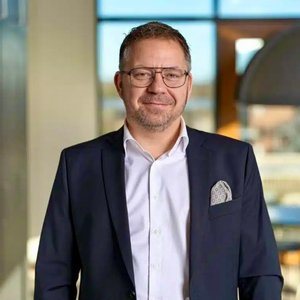
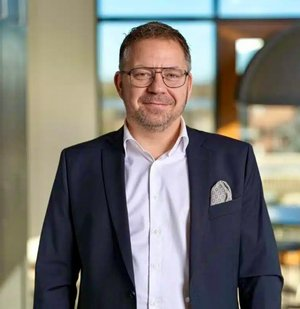
Burgermenu, serverside formularer, Thomas-billedjustering
- Burgermenu: hamburger-knap vises <960px, åbner nav-dropdown med links
  og telefonnummer til <560px (tidligere: kun logo synligt på mobil)
- api/kontakt.js: serverside email via Resend — ingen mailto: mere
  Kræver RESEND_API_KEY i Vercel env vars (resend.com)
- Tilbudsformular og klageformular bruger nu /api/kontakt POST
  med succes/fejl-feedback i stedet for at åbne mailprogram
- Thomas foto: ny portrait-crop + CSS translateY(-10%) for bedre centrering

diff --git a/index.html b/index.html
@@ -106,6 +106,19 @@
     .nav { display: flex; gap: 2rem; font-size: 0.875rem; font-weight: 600; color: var(--muted); }
     .nav a:hover { color: var(--blue); transition: color 0.2s; }
 
+    .nav-toggle {
+      display: none; flex-direction: column; justify-content: center; gap: 5px;
+      background: none; border: none; cursor: pointer; padding: 0.4rem 0.5rem; margin-left: 0.5rem;
+    }
+    .nav-toggle span {
+      display: block; width: 22px; height: 2px; background: var(--blue);
+      border-radius: 2px; transition: transform .22s, opacity .22s;
+    }
+    .nav-toggle[aria-expanded="true"] span:nth-child(1) { transform: translateY(7px) rotate(45deg); }
+    .nav-toggle[aria-expanded="true"] span:nth-child(2) { opacity: 0; }
+    .nav-toggle[aria-expanded="true"] span:nth-child(3) { transform: translateY(-7px) rotate(-45deg); }
+    .nav-mobile-phone { display: none; }
+
     .header-cta {
       font-size: 0.875rem; font-weight: 700;
       padding: 0.6rem 1.25rem; border-radius: 999px;
@@ -1177,7 +1190,15 @@
       .team-card-featured { grid-column: span 1; grid-template-columns: 1fr; }
       .cert-logo-grid { grid-template-columns: repeat(3, 1fr); }
       .wordmark { min-width: 180px; padding: 1.4rem 1.75rem; }
-      .nav { display: none; }
+      .nav-toggle { display: flex; }
+      .nav {
+        display: none; position: absolute; top: 100%; left: 0; right: 0;
+        flex-direction: column; gap: 0; background: rgba(245,243,238,.97);
+        backdrop-filter: blur(20px); border-bottom: 1px solid rgba(1,80,109,.12);
+        padding: .5rem 0 1.25rem; box-shadow: 0 8px 24px rgba(0,0,0,.08); z-index: 199;
+      }
+      .nav.is-open { display: flex; }
+      .nav a { padding: .75rem clamp(1.25rem,5vw,3rem); border-bottom: 1px solid rgba(1,80,109,.06); width: 100%; box-sizing: border-box; }
       .hero { grid-template-columns: 1fr; min-height: auto; padding-top: 3rem; }
       .hero-panel { display: grid; grid-template-columns: repeat(3,1fr); }
       .hero-panel > div { border-bottom: none; padding: 1.1rem 1rem; border-right: 1px solid rgba(255,255,255,0.12); }
@@ -1194,6 +1215,7 @@
       .wordmark { min-width: 160px; padding: 1.25rem 1.5rem; font-size: 1rem; }
       .wordmark-track { animation-duration: 28s; }
       .header-cta { display: none; }
+      .nav-mobile-phone { display: block; font-weight: 700; color: var(--blue); padding: .75rem clamp(1.25rem,5vw,3rem); border-bottom: 1px solid rgba(1,80,109,.06); }
       .site-header { padding: 1rem 1.25rem; }
       h1 { font-size: 3rem; }
       .cert-grid { grid-template-columns: 1fr 1fr; }
@@ -1662,6 +1684,11 @@ main, section, header, footer {
 
 [data-popup-key="Fargol Monazam"] .team-photo img {
   transform: scale(1.3) translateY(12%) !important;
+  transform-origin: center center !important;
+}
+
+[data-popup-key="Thomas Engelbrektsson"] .team-photo img {
+  transform: scale(1.15) translateY(-10%) !important;
   transform-origin: center center !important;
 }
 
@@ -2505,14 +2532,18 @@ body.av-edit #av-popup-store{
 <path d="M5.62402 82.5848L18.4436 74.0883C26.9723 81.5392 31.8141 86.1088 40.9883 97.342C67.2256 64.2894 80.7686 55.2111 118 47C78.3871 63.6102 38.9055 122.221 38.778 123.726C38.6506 125.231 6.60237 82.7461 5.62402 82.5848Z" fill="#FF6A3F"></path>
 </svg>
 </a>
-<nav class="nav">
+<nav class="nav" id="mainNav">
 <a href="#certificeringer"><span data-editable data-key="nav-cert">Certificeringer</span></a>
 <a href="#om"><span data-editable data-key="nav-about">Om os</span></a>
 <a href="#team"><span data-editable data-key="nav-team">Team</span></a>
 <a href="#tilbud"><span data-editable data-key="nav-offer">Få tilbud</span></a>
 <a href="#kontakt"><span data-editable data-key="nav-contact">Kontakt</span></a>
+<a class="nav-mobile-phone" href="tel:+4536163616">📞 36 16 36 16</a>
 </nav>
 <a class="header-cta" href="tel:+4536163616"><span data-editable data-key="header-cta">36 16 36 16</span></a>
+<button aria-expanded="false" aria-label="Åbn menu" class="nav-toggle" id="navToggle" type="button">
+<span aria-hidden="true"></span><span aria-hidden="true"></span><span aria-hidden="true"></span>
+</button>
 </div>
 </header>
 <main id="top">
@@ -3045,20 +3076,35 @@ Ring 36 16 36 16
       'virksomhed_størrelse': fd.get('size') || '',
       'standarder': standards
     });
-    var subject = encodeURIComponent('Tilbudsforespørgsel: ' + (fd.get('company') || fd.get('name') || ''));
-    var body = encodeURIComponent(
-      'STANDARDER\n' +
-      'Ønskede standarder: ' + standards + '\n\n' +
-      'VIRKSOMHED\n' +
-      'Firmanavn: ' + (fd.get('company') || '') + '\n' +
-      'Antal medarbejdere: ' + (fd.get('size') || '') + '\n' +
-      'Allerede certificeret: ' + (fd.get('certified') || '') + '\n\n' +
-      'KONTAKT\n' +
-      'Navn: ' + (fd.get('name') || '') + '\n' +
-      'Telefon: ' + (fd.get('phone') || '') + '\n' +
-      'Email: ' + (fd.get('email') || '')
-    );
-    window.location.href = 'mailto:info@avancert.dk?subject=' + subject + '&body=' + body;
+    var submitBtn = form.querySelector('[type="submit"]');
+    submitBtn.disabled = true; submitBtn.textContent = 'Sender…';
+    fetch('/api/kontakt', {
+      method: 'POST',
+      headers: { 'Content-Type': 'application/json' },
+      body: JSON.stringify({
+        formType: 'tilbud',
+        company: fd.get('company') || '',
+        size: fd.get('size') || '',
+        certified: fd.get('certified') || '',
+        standards: standards,
+        name: fd.get('name') || '',
+        phone: fd.get('phone') || '',
+        email: fd.get('email') || ''
+      })
+    })
+    .then(function(r){ return r.json(); })
+    .then(function(d){
+      if (d.ok) {
+        form.innerHTML = '<div style="text-align:center;padding:2rem 0"><p style="font-size:1.5rem">✓</p><h3 style="color:var(--blue);margin:.5rem 0">Tak for din forespørgsel!</h3><p>Vi vender tilbage inden for 24 timer på hverdage.</p></div>';
+      } else {
+        submitBtn.disabled = false; submitBtn.textContent = 'Send forespørgsel';
+        alert('Noget gik galt. Ring til os på 36 16 36 16.');
+      }
+    })
+    .catch(function(){
+      submitBtn.disabled = false; submitBtn.textContent = 'Send forespørgsel';
+      alert('Ingen forbindelse. Ring til os på 36 16 36 16.');
+    });
   });
 })();
 </script>
@@ -3541,23 +3587,64 @@ document.addEventListener('keydown', function(e){
   if (e.key === 'Escape') closeAllModals();
 });
 
-// Complaint form basic handler
+// Complaint form
 var complaintForm = document.getElementById('complaintForm');
 if (complaintForm) {
   complaintForm.addEventListener('submit', function(e){
     e.preventDefault();
+    var btn = complaintForm.querySelector('[type="submit"]');
     var fd = new FormData(complaintForm);
-    var subject = encodeURIComponent('Henvendelse: ' + (fd.get('type') || 'Klage'));
-    var body = encodeURIComponent(
-      'Type: ' + (fd.get('type') || '') + '\n' +
-      'Navn: ' + (fd.get('name') || '') + '\n' +
-      'Email: ' + (fd.get('email') || '') + '\n' +
-      'Virksomhed: ' + (fd.get('company') || '') + '\n\n' +
-      'Beskrivelse:\n' + (fd.get('message') || '')
-    );
-    window.location.href = 'mailto:info@avancert.dk?subject=' + subject + '&body=' + body;
+    btn.disabled = true; btn.textContent = 'Sender…';
+    fetch('/api/kontakt', {
+      method: 'POST',
+      headers: { 'Content-Type': 'application/json' },
+      body: JSON.stringify({
+        formType: 'klage',
+        type: fd.get('type') || '',
+        name: fd.get('name') || '',
+        email: fd.get('email') || '',
+        company: fd.get('company') || '',
+        message: fd.get('message') || ''
+      })
+    })
+    .then(function(r){ return r.json(); })
+    .then(function(d){
+      if (d.ok) {
+        complaintForm.innerHTML = '<p style="color:var(--blue);font-weight:700;padding:1rem 0;">✓ Tak — vi vender tilbage hurtigst muligt.</p>';
+      } else {
+        btn.disabled = false; btn.textContent = 'Send henvendelse';
+        alert('Noget gik galt. Ring til os på 36 16 36 16.');
+      }
+    })
+    .catch(function(){
+      btn.disabled = false; btn.textContent = 'Send henvendelse';
+      alert('Ingen forbindelse. Ring til os på 36 16 36 16.');
+    });
   });
 }
+
+// Hamburger menu
+(function(){
+  var toggle = document.getElementById('navToggle');
+  var nav = document.getElementById('mainNav');
+  if (!toggle || !nav) return;
+  toggle.addEventListener('click', function(){
+    var open = nav.classList.toggle('is-open');
+    toggle.setAttribute('aria-expanded', open);
+  });
+  nav.querySelectorAll('a').forEach(function(a){
+    a.addEventListener('click', function(){
+      nav.classList.remove('is-open');
+      toggle.setAttribute('aria-expanded', 'false');
+    });
+  });
+  document.addEventListener('click', function(e){
+    if (!nav.contains(e.target) && !toggle.contains(e.target)){
+      nav.classList.remove('is-open');
+      toggle.setAttribute('aria-expanded', 'false');
+    }
+  });
+})();
 </script>
 
 <!-- COOKIE BANNER -->

diff --git a/api/kontakt.js b/api/kontakt.js
@@ -1,0 +1,67 @@
+module.exports = async (req, res) => {
+  if (req.method !== 'POST') return res.status(405).end();
+
+  const b = req.body || {};
+  const apiKey = process.env.RESEND_API_KEY;
+  if (!apiKey) return res.status(500).json({ error: 'Email ikke konfigureret (mangler RESEND_API_KEY)' });
+
+  const to = process.env.CONTACT_EMAIL || 'info@avancert.dk';
+
+  let subject, text;
+
+  if (b.formType === 'tilbud') {
+    subject = `Tilbudsforespørgsel: ${b.company || b.name || '(ukendt)'}`;
+    text = [
+      'STANDARDER',
+      `Ønskede standarder: ${b.standards || 'Ikke valgt'}`,
+      '',
+      'VIRKSOMHED',
+      `Firmanavn: ${b.company || ''}`,
+      `Antal medarbejdere: ${b.size || ''}`,
+      `Allerede certificeret: ${b.certified || ''}`,
+      '',
+      'KONTAKT',
+      `Navn: ${b.name || ''}`,
+      `Telefon: ${b.phone || ''}`,
+      `Email: ${b.email || ''}`,
+    ].join('\n');
+  } else {
+    subject = `Henvendelse (${b.type || 'Klage'}): ${b.name || '(ukendt)'}`;
+    text = [
+      `Type: ${b.type || ''}`,
+      `Navn: ${b.name || ''}`,
+      `Email: ${b.email || ''}`,
+      `Virksomhed: ${b.company || ''}`,
+      '',
+      'Beskrivelse:',
+      b.message || '',
+    ].join('\n');
+  }
+
+  // 'from' kræver en verificeret domæne i Resend.
+  // Brug onboarding@resend.dev under test; skift til noreply@avancert.dk når domænet er verificeret.
+  const from = process.env.RESEND_FROM || 'Avancert hjemmeside <onboarding@resend.dev>';
+
+  try {
+    const r = await fetch('https://api.resend.com/emails', {
+      method: 'POST',
+      headers: {
+        Authorization: `Bearer ${apiKey}`,
+        'Content-Type': 'application/json',
+      },
+      body: JSON.stringify({
+        from,
+        to: [to],
+        ...(b.email ? { reply_to: [b.email] } : {}),
+        subject,
+        text,
+      }),
+    });
+
+    const data = await r.json();
+    if (!r.ok) return res.status(500).json({ error: 'Resend-fejl', details: data });
+    return res.status(200).json({ ok: true });
+  } catch (err) {
+    return res.status(500).json({ error: 'Netværksfejl mod Resend' });
+  }
+};
